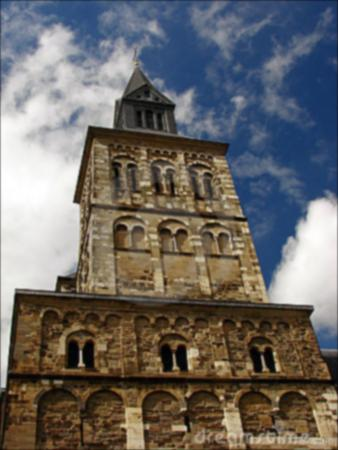
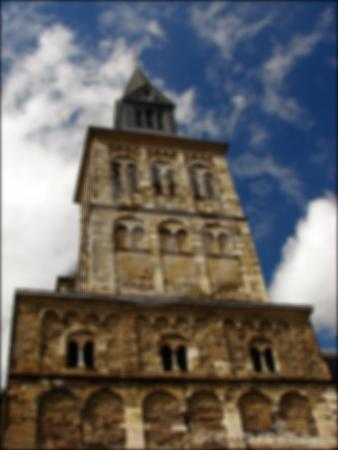
added convolution things

diff --git a/presentation.tex b/presentation.tex
@@ -56,32 +56,80 @@ One has original data and a kernel which represents the other function.
 \end{frame}
 
 \begin{frame}{Gaussian Blur}
-Gaussian blur is an application of  convolution. It 'blends' a Gaussian, a normal curve onto the image. 
+Gaussian blur is an application of  convolution. It 'blends' a Gaussian, a normal curve onto the image. One has control over blurriness by the standard deviation, $\sigma$.
+
+%\begin{figure}[ht]
+%\begin{minipage}[b]{0.1\linewidth}
+%\centering
+%\includegraphics[width=1.3in]{churchin.jpg}
+%\caption{Default Image}
+%\label{fig:figure1}
+%\end{minipage}
+%\hspace{2.0in}
+%\begin{minipage}[b]{0.1\linewidth}
+%\centering
+%\includegraphics[width=1.3in]{churchoutb.jpg}
+%\caption{Blurred Image}
+%\hspace{1.0in}
+%\label{fig:figure2}
+%\end{minipage}
+%\end{figure}
 
 \begin{figure}[ht]
-\begin{minipage}[b]{0.1\linewidth}
-%\centering
 \includegraphics[width=1.3in]{churchin.jpg}
-\caption{default}
-\label{fig:figure1}
-\end{minipage}
-\hspace{2.0in}
-\begin{minipage}[b]{0.1\linewidth}
-\centering
-\includegraphics[width=1.3in]{churchin.jpg}
-\caption{default}
-\label{fig:figure2}
-\end{minipage}
+\hspace{.1in}
+\includegraphics[width=1.3in]{churchoutblur.jpg}
+\hspace{.1in}
+\includegraphics[width=1.3in]{churchoutblur2.jpg}
+\caption{Original image on left. $\sigma$ = 2 in middle. $\sigma$ = 4 on left.}
 \end{figure}
-
 
 \end{frame}
 
 \begin{frame}{Sobel Edge Detection}
+Another application of convolution is edge detection. The Sobel operator can be thought of as a discrete differentiation operator. It gets how fast one color goes to another. 
 
+\begin{figure}[ht]
+\includegraphics[width=1.4in]{churchin.jpg}
+\hspace{.1in}
+\includegraphics[width=1.4in]{churchout.jpg}
+\hspace{.1in}
+\end{figure}
 \end {frame}
 
+\begin{frame}{Sobel Kernel}
+The kernel used to create this edge detection is in two parts:
+
+
+$K_X = \begin{pmatrix}
+	-1 & 0 & 1\\
+	-2 & 0 & 2\\
+	-1 & 0 & 1\\
+\end{pmatrix}$
+$K_Y = \begin{pmatrix}
+	-1 & -2 & -1\\
+	0 & 0 & 0\\
+	1 & 2 & 1\\
+\end{pmatrix}$
+
+\vspace{.4in}
+$E = \sqrt(E_Y^2+E_Y^2)$ Where $E_X$ and $E_Y$ are the result of the convolution.
+
+\end{frame}
+
 \begin{frame}{Blur + Edge Detection}
+One can combine these operations to find the major edges in an image.
+
+\begin{figure}[ht]
+\includegraphics[width=1.3in]{churchout.jpg}
+\hspace{.1in} 
+\includegraphics[width=1.3in]{churchoutbluredge.jpg}
+\hspace{.1in}
+\includegraphics[width=1.3in]{churchoutblur2edge.jpg}
+\hspace{.1in}
+\caption{No Blur, Blur, $\sigma = 2$, $\sigma = 4$}
+\end{figure}
+
 
 \end{frame}
 

diff --git a/supporting.tex b/supporting.tex
@@ -72,7 +72,7 @@ Where sigma is the standard deviation for the curve (how much blur to apply).
 
 To apply this function to the image we use convolution. Because we are using discrete data, we use a discrete convolution. To do this convolution we need to first choose a kernel size for our Gaussian function. The Gaussian function never goes to zero, it only crouches zero. A kernel that is the size of the image would be ideal, but it is unneeded because values further away from the 0,0 point are very close to zero. For our tests, we used kernel sizes of (5,5) to (21,21). These gave us good results. 
 
-2D convolution can be thought of as super imposing the kernel on top of the image and adding together each entry of the kernel multiplied by the original.
+2D convolution can be thought of as super imposing the flipped kernel on top of the image and adding together each entry of the kernel multiplied by the original.
 This graphic sums up the process.
 \begin{figure}[htp]
 \centering

diff --git a/test.py b/test.py
@@ -13,13 +13,18 @@ import math
 
 
 
-#orig = Vortex.load_image('churchin.jpg')
-#a = Vortex.gaussiangBlur(orig, sigma=1, kernelSize=15)
-#Vortex.save_image(a, 'churchoutblur.jpg')
+orig = Vortex.load_image('churchin.jpg')
+a = Vortex.gaussiangBlur(orig, sigma=2, kernelSize=15)
+a = Vortex.sobelEdgeDetection(a)
+Vortex.save_image(a, 'churchoutbluredge.jpg')
+a = Vortex.gaussiangBlur(orig, sigma=4, kernelSize=15)
+a = Vortex.sobelEdgeDetection(a)
+Vortex.save_image(a, 'churchoutblur2edge.jpg')
+
 #a = Vortex.sobelEdgeDetection(a)
 #Vortex.save_image(a, 'churchoutbluredge.jpg')
 
-
+'''
 orig = Vortex.load_image('bunnycute.jpg')
 print orig
 maxSize = orig[0].shape
@@ -33,6 +38,7 @@ unOffset = numpy.matrix([[1,0,maxSize[0]/2],[0,1,maxSize[1]/2],[0,0,1]])
 a = Vortex.apply_transformation_matrix(orig, unOffset*rot*offset)
 
 Vortex.save_image(a, 'bunnycuteRot.jpg')
+'''
 #a = Vortex.invert(a)
 #a = Vortex.add_layers(orig,a)
 
